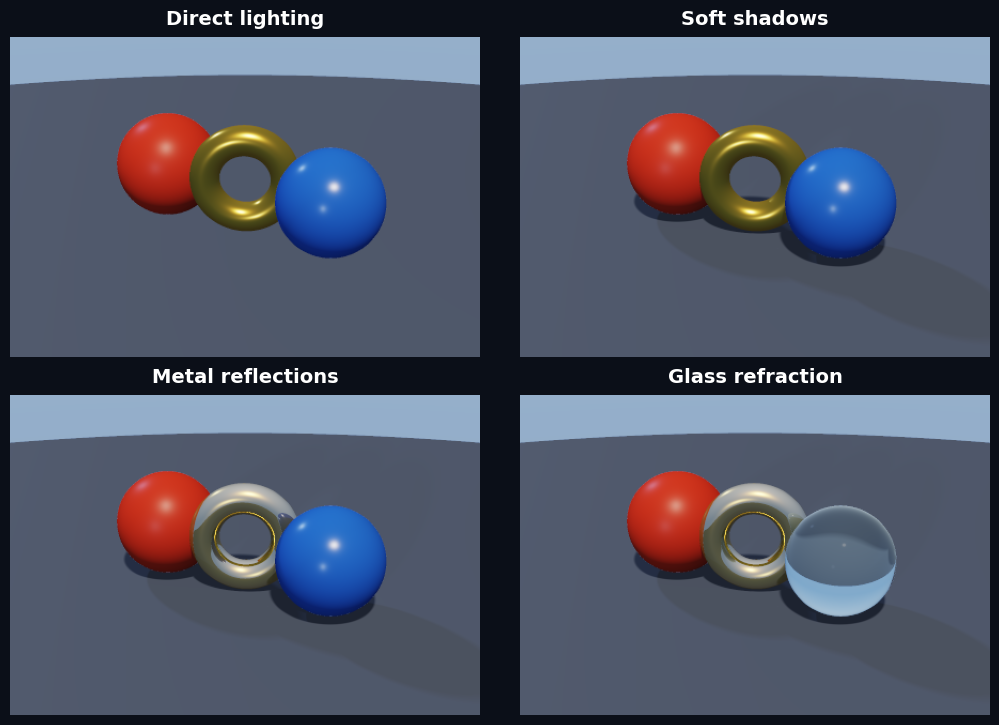
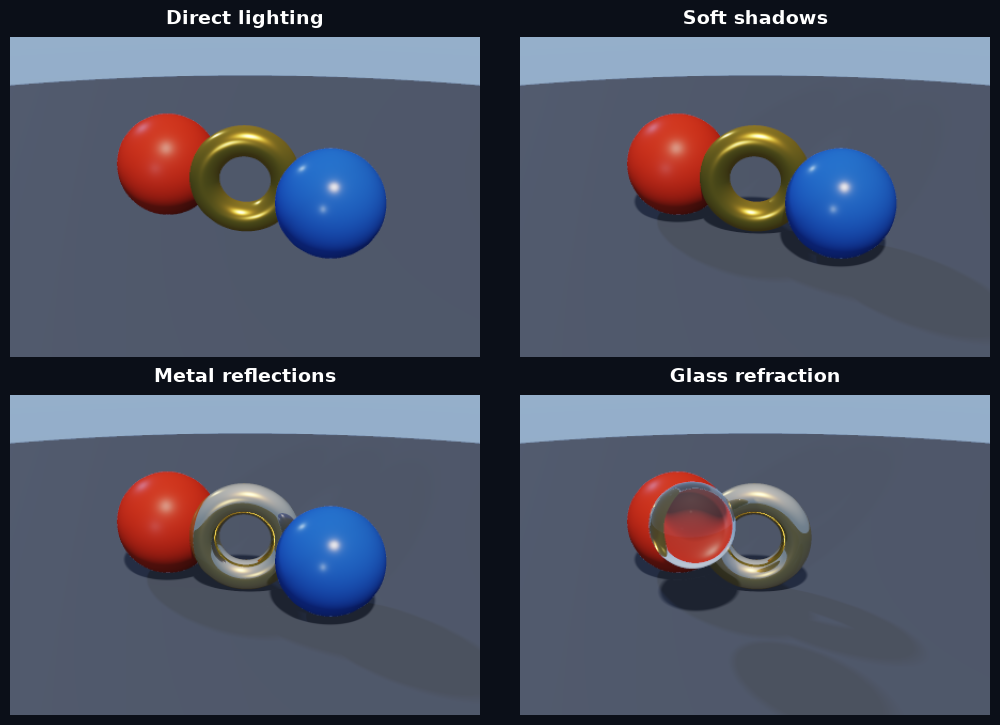
show scene refraction through glass

diff --git a/examples/rendering_gallery.py b/examples/rendering_gallery.py
@@ -31,15 +31,21 @@ def build_scene(*, glass: bool) -> Scene:
         metallic=0.8,
         reflectivity=0.35,
     )
-    blue = Material(
-        color=[0.72, 0.9, 1.0] if glass else [0.035, 0.18, 0.72],
+    sphere_material = Material(
+        color=[0.96, 0.98, 1.0] if glass else [0.035, 0.18, 0.72],
         roughness=0.08 if glass else 0.28,
-        opacity=0.06 if glass else 1.0,
+        opacity=0.03 if glass else 1.0,
         ior=1.5,
     )
     ground = Material(color=[0.1, 0.12, 0.16], roughness=0.72)
     ground_height = -0.92
     contact_clearance = 0.002
+    sphere_radius = 0.58 if glass else 0.78
+    sphere_position = (
+        jnp.array([-0.25, 0.5, 1.24])
+        if glass
+        else jnp.array([1.4, ground_height + sphere_radius + contact_clearance, 0.0])
+    )
     geometry = Union(
         Translate(
             Sphere(0.82, material=red),
@@ -50,8 +56,8 @@ def build_scene(*, glass: bool) -> Scene:
             jnp.array([0.0, ground_height + 0.62 + 0.23 + contact_clearance, 0.0]),
         ),
         Translate(
-            Sphere(0.78, material=blue),
-            jnp.array([1.4, ground_height + 0.78 + contact_clearance, 0.0]),
+            Sphere(sphere_radius, material=sphere_material),
+            sphere_position,
         ),
         Plane(ground_height, material=ground),
         smoothness=0.0,

diff --git a/tests/render/test_raymarch.py b/tests/render/test_raymarch.py
@@ -307,6 +307,38 @@ def test_reflection_uses_background_on_secondary_miss():
     np.testing.assert_allclose(pixel, background, atol=0.02)
 
 
+def test_glass_fresnel_uses_traced_reflection():
+    def directional_environment(direction):
+        return jnp.where(
+            direction[2] > 0.0,
+            jnp.array([1.0, 0.0, 0.0]),
+            jnp.array([0.0, 0.0, 1.0]),
+        )
+
+    pixel = _render_pixel(
+        _sphere_sdf(),
+        lambda _point: _default_material(
+            color=jnp.ones(3),
+            opacity=jnp.asarray(0.0),
+            ior=jnp.asarray(1.5),
+        ),
+        jnp.array([0.0, 0.0, 5.0]),
+        jnp.array([0.0, 0.0, -1.0]),
+        jnp.array([[0.0, 0.0, -1.0]]),
+        jnp.ones((1, 3)),
+        jnp.zeros(3),
+        **_pixel_options(
+            reflect_steps=32,
+            refract_steps=32,
+            shadow_steps=0,
+            ambient=0.0,
+        ),
+        env_fn=directional_environment,
+    )
+
+    np.testing.assert_allclose(pixel, [0.04, 0.0, 0.96], atol=0.01)
+
+
 def test_refraction_produces_finite_image():
     glass = Sphere(
         radius=1.0,

diff --git a/jaxcad/render/raymarch/render.py b/jaxcad/render/raymarch/render.py
@@ -134,6 +134,7 @@ def _render_pixel(
 
     def render_surface(_unused: None) -> Array:
         shaded_color = surface_color
+        reflected_color = surface_color
 
         if reflect_steps > 0:
             reflected_direction = ray_direction - 2.0 * jnp.dot(ray_direction, normal) * normal
@@ -202,8 +203,8 @@ def _render_pixel(
         )
         transmitted_color = transmitted_color * material["color"]
         fresnel = _fresnel_schlick(jnp.dot(-ray_direction, normal), ior)
-        surface_weight = opacity + (1.0 - opacity) * fresnel
-        return shaded_color * surface_weight + transmitted_color * (1.0 - opacity) * (1.0 - fresnel)
+        dielectric_color = reflected_color * fresnel + transmitted_color * (1.0 - fresnel)
+        return shaded_color * opacity + dielectric_color * (1.0 - opacity)
 
     def render_silhouette(_unused: None) -> Array:
         opacity = material.get("opacity", jnp.asarray(1.0))
